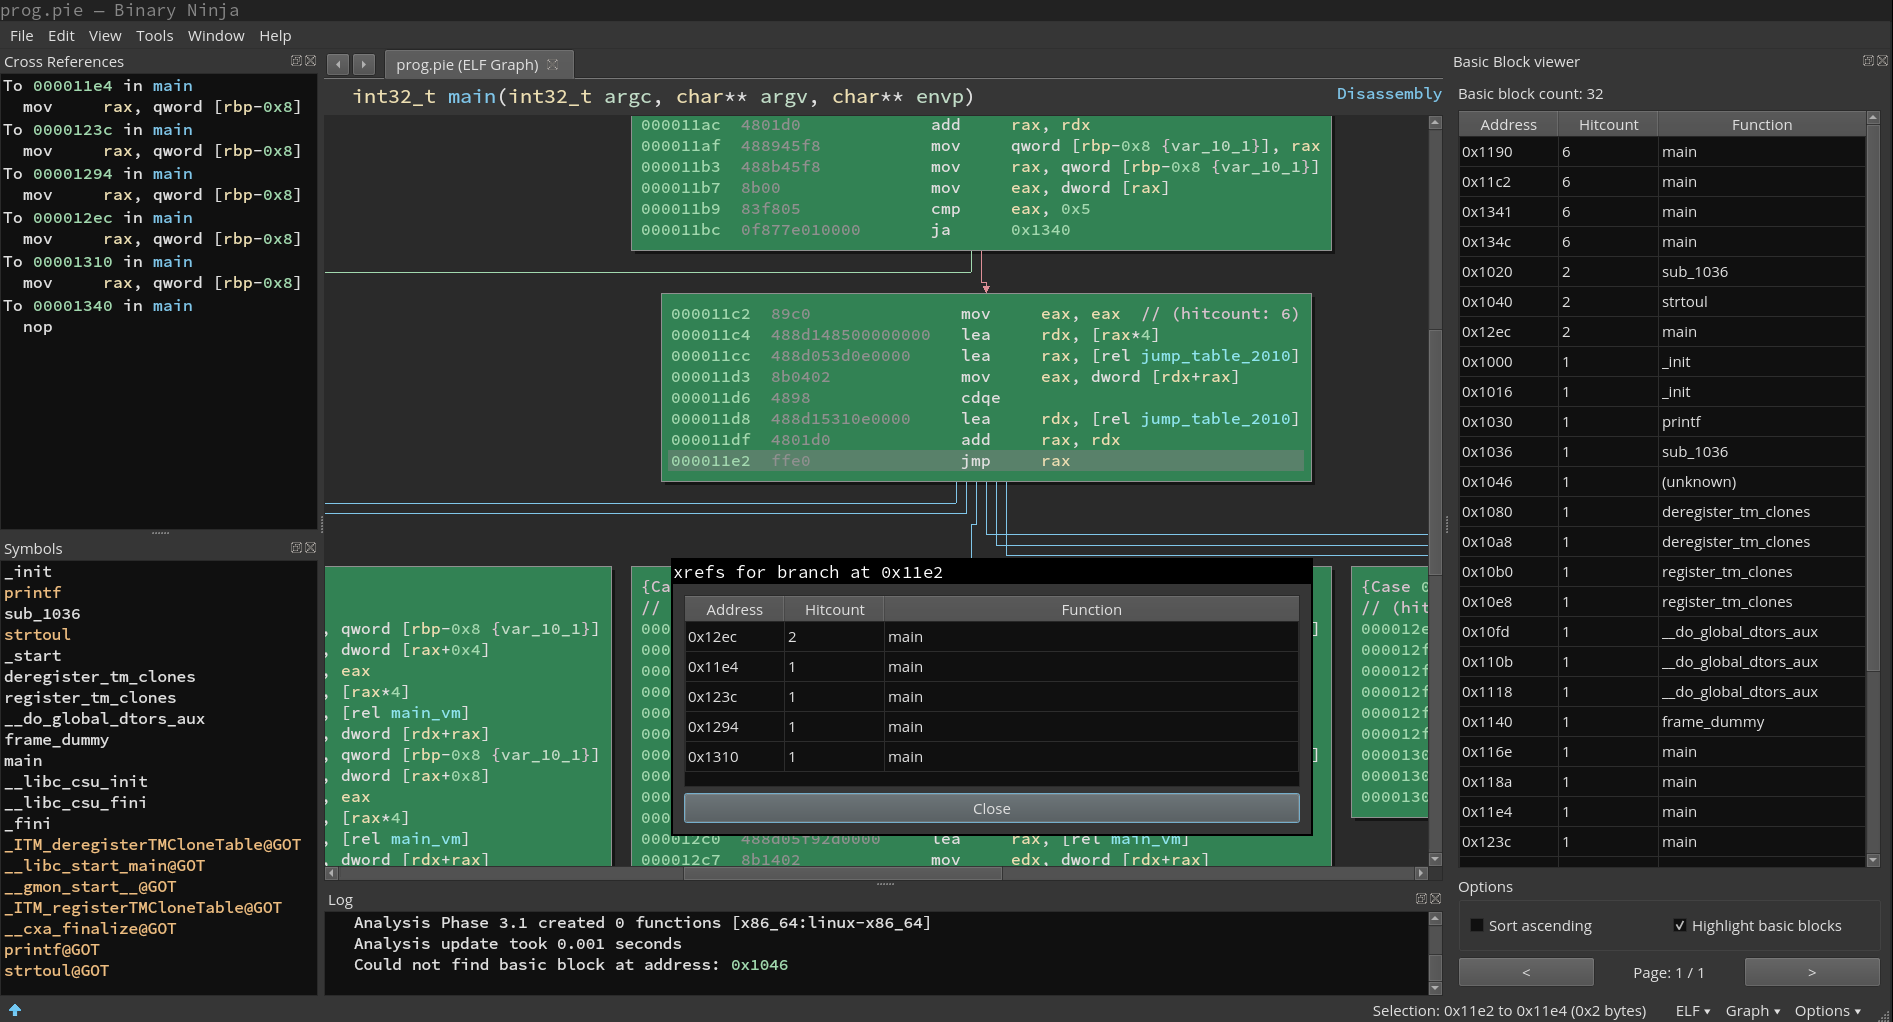
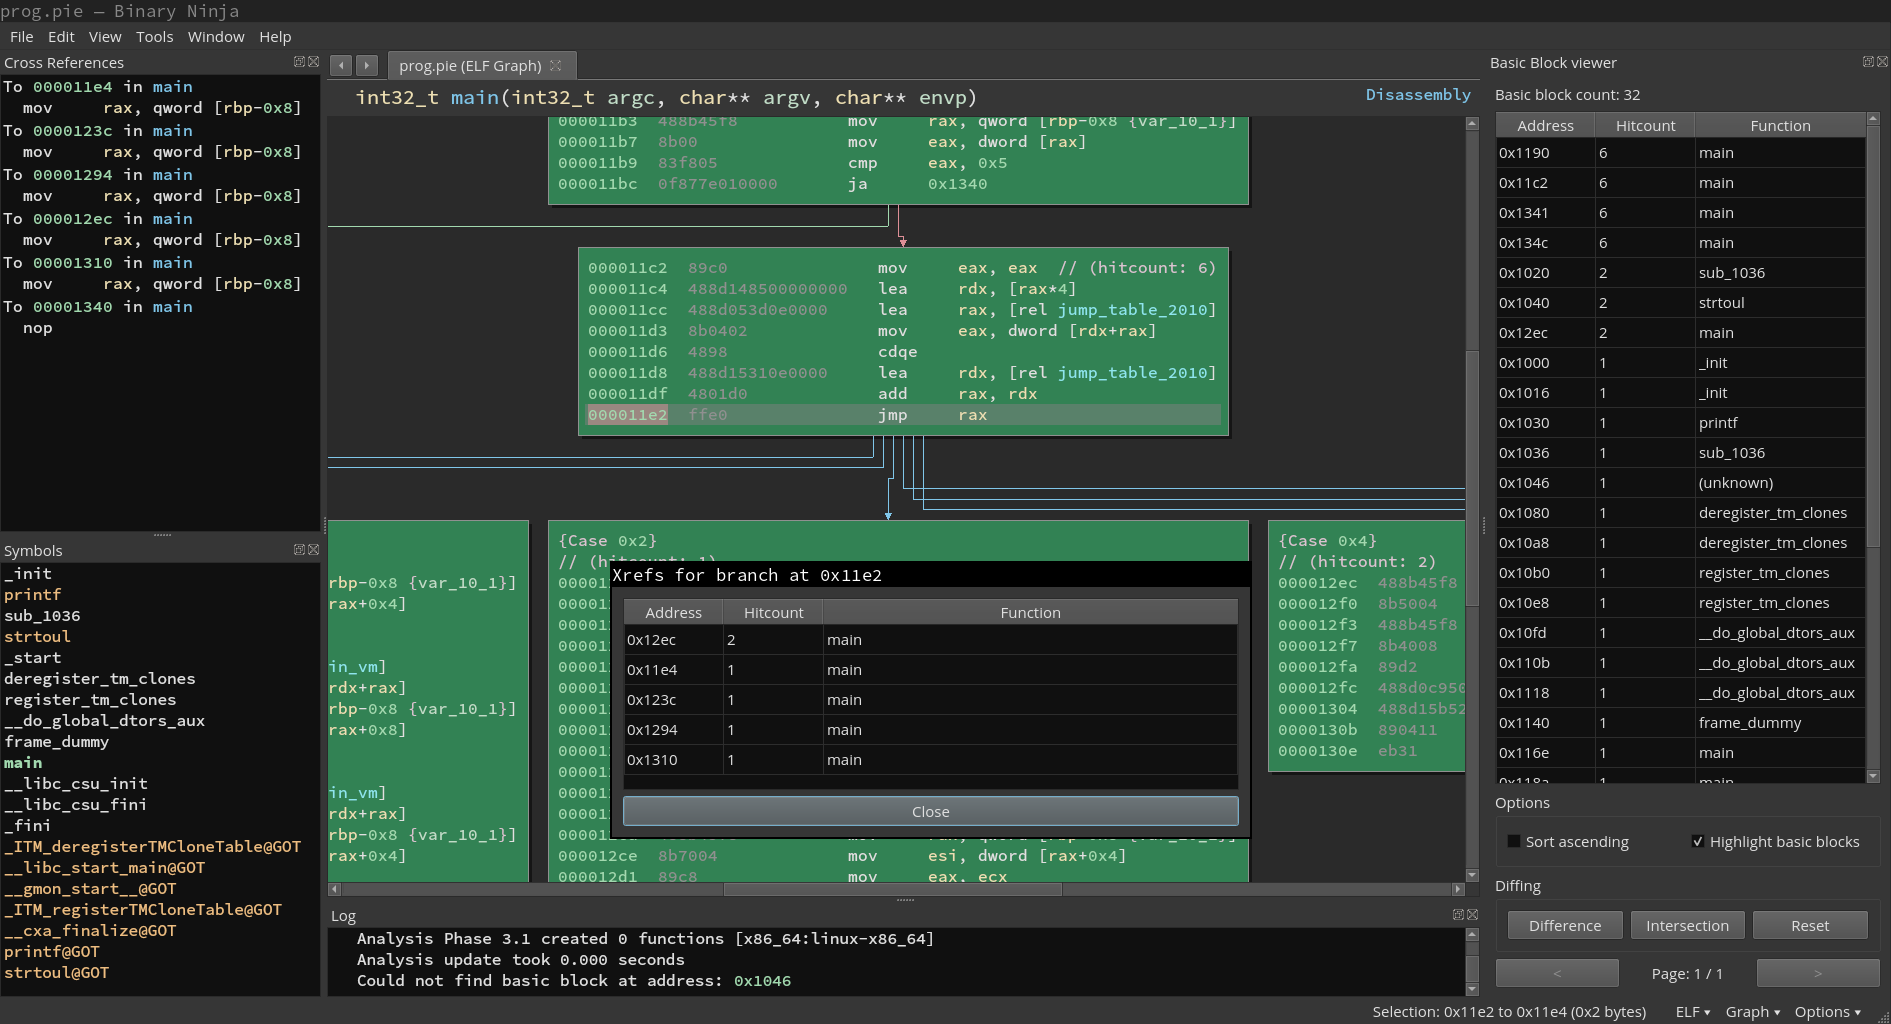
Added trace diffing for the binary ninja plugin

diff --git a/plugins/binja-wakare/view.py b/plugins/binja-wakare/view.py
@@ -1,10 +1,15 @@
 import math
+import sqlite3
 
 from PySide2.QtWidgets import QDialog, QTableWidget, QTableWidgetItem, QPushButton, QVBoxLayout, QHBoxLayout, QWidget, QLabel, QCheckBox, QGroupBox
 from PySide2.QtCore import Qt
 
 from binaryninjaui import DockContextHandler, UIActionHandler
 from binaryninja.highlight import HighlightColor, HighlightStandardColor
+from binaryninja.enums import MessageBoxIcon
+from binaryninja.interaction import show_message_box, get_open_filename_input
+
+from .dbutils import TraceDB, TraceDBError
 
 
 def _name_from_address(bv, address):
@@ -30,6 +35,27 @@ def _name_from_address(bv, address):
         return symbol.full_name
 
     return symbol.name
+
+
+def _print_error(title, msg):
+    show_message_box(title, msg, icon=MessageBoxIcon.ErrorIcon)
+
+
+def _load_db(bv):
+    path = get_open_filename_input("Select trace database")
+
+    if not path:
+        return None
+
+    path = path.decode("UTF-8")
+
+    try:
+        db = TraceDB(bv, path)
+        return db
+    except TraceDBError as e:
+        _print_error("Database error", "Loading error: {}".format(e))
+    except sqlite3.Error as e:
+        _print_error("Database error", "sqlite error: {}".format(e))
 
 
 class XrefsDialog(QDialog):
@@ -133,6 +159,24 @@ class BBViewerWidget(QWidget, DockContextHandler):
         optionslayout.addWidget(highlight_checkbox)
         optionsbox.setLayout(optionslayout)
 
+        # Diffing buttons
+        diffinglayout = QHBoxLayout()
+        diffingoptions = QGroupBox("Diffing")
+
+        diffing_reset_button = QPushButton("Reset")
+        diffing_diff_button = QPushButton("Difference")
+        diffing_inter_button = QPushButton("Intersection")
+
+        diffing_reset_button.clicked.connect(self._cb_diff_reset)
+        diffing_diff_button.clicked.connect(self._cb_diff_diff)
+        diffing_inter_button.clicked.connect(self._cb_diff_inter)
+
+        diffinglayout.addWidget(diffing_diff_button)
+        diffinglayout.addWidget(diffing_inter_button)
+        diffinglayout.addWidget(diffing_reset_button)
+
+        diffingoptions.setLayout(diffinglayout)
+
         # Bottom buttons for page change
         prevnextlayout = QHBoxLayout()
         self.back_button = QPushButton("<")
@@ -151,6 +195,7 @@ class BBViewerWidget(QWidget, DockContextHandler):
         vlayout.addWidget(self.hitcount_counter)
         vlayout.addWidget(self.hit_table)
         vlayout.addWidget(optionsbox)
+        vlayout.addWidget(diffingoptions)
         vlayout.addLayout(prevnextlayout)
 
         self.setLayout(vlayout)
@@ -182,45 +227,70 @@ class BBViewerWidget(QWidget, DockContextHandler):
         self._render_page()
 
     def _cb_highlight(self, elem):
-        def delete_hitcount_str(input_str):
-            if "(hitcount: " not in input_str:
-                return input_str
-
-            chk = input_str[input_str.find("(hitcount: "):]
-
-            if ")\n" not in input_str:
-                return input_str
-
-            chk = chk[:input_str.find(")\n")+2]
-
-            return input_str.replace(chk, "")
-
-        # (0, 255, 106)
         self.highlight = not self.highlight
-        colorHighlight = HighlightColor(red=0, green=255, blue=106)
+        self._bb_highlight(self.highlight)
 
-        for bbaddr, bbhitcount in self.hitcounts:
-            bbs = self.bv.get_basic_blocks_at(bbaddr)
+    def _cb_diff_reset(self, item):
+        if self.highlight:
+            self._bb_highlight(False)
 
-            if not bbs:
-                print("Could not find basic block at address: 0x{:x}".format(bbaddr))
-                continue
+        self.hitcounts = [e for e in self.orig_hitcounts]
 
-            bb = bbs[0]
-            fn = bb.function
+        if self.highlight:
+            self._bb_highlight(True)
 
-            if not fn:
-                print("Could not find function containing block at address: 0x{:x}".format(bbaddr))
-                continue
+        self.current_page = 0
+        self.hitcount_counter.setText("Basic block count: {}".format(len(self.hitcounts)))
+        self._render_nav_line()
+        self._render_page()
 
-            cur_comment = delete_hitcount_str(fn.get_comment_at(bbaddr))
+    def _cb_diff_diff(self, item):
+        new_db = _load_db(self.bv)
 
-            if self.highlight:
-                bb.set_user_highlight(colorHighlight)
-                fn.set_comment_at(bbaddr, "(hitcount: {})\n".format(bbhitcount) + cur_comment)
-            else:
-                bb.set_user_highlight(HighlightStandardColor.NoHighlightColor)
-                fn.set_comment_at(bbaddr, cur_comment)
+        if not new_db:
+            return
+
+        source_bbs = set([e[0] for e in self.hitcounts])
+        new_bbs = set([e[0] for e in new_db.get_hitcounts()])
+        result_bbs = source_bbs - new_bbs
+
+        if self.highlight:
+            self._bb_highlight(False)
+
+        previous_count = len(self.hitcounts)
+        self.hitcounts = list(filter(lambda e: e[0] in result_bbs, self.hitcounts))
+        self.hitcount_counter.setText("Basic block count: {} (previously {})".format(len(self.hitcounts), previous_count))
+
+        if self.highlight:
+            self._bb_highlight(True)
+
+        self.current_page = 0
+        self._render_nav_line()
+        self._render_page()
+
+    def _cb_diff_inter(self, item):
+        new_db = _load_db(self.bv)
+
+        if not new_db:
+            return
+
+        source_bbs = set([e[0] for e in self.hitcounts])
+        new_bbs = set([e[0] for e in new_db.get_hitcounts()])
+        result_bbs = source_bbs & new_bbs
+
+        if self.highlight:
+            self._bb_highlight(False)
+
+        previous_count = len(self.hitcounts)
+        self.hitcounts = list(filter(lambda e: e[0] in result_bbs, self.hitcounts))
+        self.hitcount_counter.setText("Basic block count: {} (previously {})".format(len(self.hitcounts), previous_count))
+
+        if self.highlight:
+            self._bb_highlight(True)
+
+        self.current_page = 0
+        self._render_nav_line()
+        self._render_page()
 
     def _render_nav_line(self):
         max_pages = math.ceil(len(self.hitcounts) / BBViewerWidget.PER_PAGE_COUNT)
@@ -254,3 +324,43 @@ class BBViewerWidget(QWidget, DockContextHandler):
             self.hit_table.setItem(i, 0, address_item)
             self.hit_table.setItem(i, 1, hitcount_item)
             self.hit_table.setItem(i, 2, name_item)
+
+    def _bb_highlight(self, highlight):
+        def delete_hitcount_str(input_str):
+            if "(hitcount: " not in input_str:
+                return input_str
+
+            chk = input_str[input_str.find("(hitcount: "):]
+
+            if ")\n" not in input_str:
+                return input_str
+
+            chk = chk[:input_str.find(")\n")+2]
+
+            return input_str.replace(chk, "")
+
+        # (0, 255, 106)
+        colorHighlight = HighlightColor(red=0, green=255, blue=106)
+
+        for bbaddr, bbhitcount in self.hitcounts:
+            bbs = self.bv.get_basic_blocks_at(bbaddr)
+
+            if not bbs:
+                print("Could not find basic block at address: 0x{:x}".format(bbaddr))
+                continue
+
+            bb = bbs[0]
+            fn = bb.function
+
+            if not fn:
+                print("Could not find function containing block at address: 0x{:x}".format(bbaddr))
+                continue
+
+            cur_comment = delete_hitcount_str(fn.get_comment_at(bbaddr))
+
+            if highlight:
+                bb.set_user_highlight(colorHighlight)
+                fn.set_comment_at(bbaddr, "(hitcount: {})\n".format(bbhitcount) + cur_comment)
+            else:
+                bb.set_user_highlight(HighlightStandardColor.NoHighlightColor)
+                fn.set_comment_at(bbaddr, cur_comment)

diff --git a/plugins/binja-wakare/__init__.py b/plugins/binja-wakare/__init__.py
@@ -25,11 +25,11 @@ BRANCH_IL = [
 ]
 
 
-def print_error(title, message):
+def _print_error(title, message):
     show_message_box(title, message, icon=MessageBoxIcon.ErrorIcon)
 
 
-def is_branch(ins):
+def _is_branch(ins):
     for subins in ins.prefix_operands:
         if isinstance(subins, LowLevelILOperationAndSize) and subins.operation in BRANCH_IL:
             return True
@@ -37,7 +37,7 @@ def is_branch(ins):
     return False
 
 
-def get_llil_at(bv, addr):
+def _get_llil_at(bv, addr):
     """ Gets the low level il instruction at given vaddr """
     fns = bv.get_functions_containing(addr)
 
@@ -61,7 +61,7 @@ def db_required(func):
 
     def inner(*args, **kwargs):
         if not LOADED_DB:
-            print_error("Database Error", "No trace was loaded.Please open a trace database.")
+            _print_error("Database Error", "No trace was loaded.Please open a trace database.")
         else:
             func(*args, **kwargs)
 
@@ -99,10 +99,10 @@ def db_load(bv):
 
         show_message_box("Trace info", text)
     except sqlite3.Error as e:
-        print_error("Database error", "sqlite error: {}".format(e))
+        _print_error("Database error", "sqlite error: {}".format(e))
         LOADED_DB = None
     except TraceDBError as e:
-        print_error("Database error", "Trace init error: {}".format(e))
+        _print_error("Database error", "Loading error: {}".format(e))
         LOADED_DB = None
 
 
@@ -110,10 +110,10 @@ def db_load(bv):
 def display_branch_xrefs(bv, addr):
     global LOADED_DB
 
-    ins = get_llil_at(bv, addr)
+    ins = _get_llil_at(bv, addr)
 
-    if not is_branch(ins):
-        print_error("Code error", "This instruction is not a branch")
+    if not _is_branch(ins):
+        _print_error("Code error", "This instruction is not a branch")
         return
 
     dialog = XrefsDialog(addr, bv, LOADED_DB)
@@ -139,7 +139,7 @@ def display_bb_viewer(bv):
     dock_handler.addDockWidget(dock_widget, Qt.RightDockWidgetArea, Qt.Vertical, True)
 
 
-PluginCommand.register("Execution trace\\Load trace database", "Loads a trace database", db_load)
-PluginCommand.register_for_address("Execution trace\\Branch xrefs from", "Displays xrefs from a branch", display_branch_xrefs)
+PluginCommand.register("Wakare\\Load trace database", "Loads a trace database", db_load)
+PluginCommand.register_for_address("Wakare\\Branch xrefs from", "Displays xrefs from a branch", display_branch_xrefs)
 
-PluginCommand.register("Execution trace\\Show basic block viewer", "Displays information about basic blocks", display_bb_viewer)
+PluginCommand.register("Wakare\\Show basic block viewer", "Displays information about basic blocks", display_bb_viewer)

diff --git a/src/extractor/pt_extractor.cpp b/src/extractor/pt_extractor.cpp
@@ -129,7 +129,7 @@ static int setup_pt(struct pt_insn_decoder** ins_dec, PerfFile& file)
     }
 
     struct pt_image* image = pt_image_alloc(nullptr);
-    
+
     if(!image) {
         std::cerr << "Could not allocate trace image\n";
         return -1;
@@ -137,7 +137,7 @@ static int setup_pt(struct pt_insn_decoder** ins_dec, PerfFile& file)
 
     for(auto& map : file.maps) {
         if(map.filename != "[vdso]") {
-            int err = pt_image_add_file(image, map.filename.c_str(), 
+            int err = pt_image_add_file(image, map.filename.c_str(),
                     map.offset, map.size, nullptr, map.start);
 
             if(err != 0) {
@@ -231,7 +231,7 @@ int pt_process(std::string perf_path, std::string binary_path,
 
     if(setup_perf(perf_file, perf_path) < 0)
         return 1;
-    
+
     if(setup_pt(&ins_dec, perf_file) < 0)
         return 1;
 
@@ -341,7 +341,7 @@ int pt_process(std::string perf_path, std::string binary_path,
             }
 
 
-            if(ins.iclass == ptic_jump || 
+            if(ins.iclass == ptic_jump ||
                     ins.iclass == ptic_cond_jump ||
                     ins.iclass == ptic_call) {
 
@@ -376,7 +376,7 @@ int pt_process(std::string perf_path, std::string binary_path,
 
     out_fstream.close();
     google::protobuf::ShutdownProtobufLibrary();
-    
+
     // pt cleanup
     pt_image_free(pt_insn_get_image(ins_dec));
     pt_insn_free_decoder(ins_dec);

diff --git a/docs/binary-ninja.md b/docs/binary-ninja.md
@@ -1,5 +1,5 @@
 # binja-wakare
-binja-wakare is a binary ninja plugin providing tools to use the trace databases generated by wakare-converter. You can find the plugin in "Tools/Execution trace" withing binja.
+binja-wakare is a binary ninja plugin providing tools to use the trace databases generated by wakare-converter. You can find the plugin in "Tools/Wakare" withing binja.
 
 ## Installation
 Copy or symlink the binja-wakare folder to your binary ninja plugin folder.
@@ -7,6 +7,7 @@ Copy or symlink the binja-wakare folder to your binary ninja plugin folder.
 ## Features
 - Basic block listing
 - Basic block coloration
+- Basic block diffing (Difference / Intersection)
 - Branch target resolution (right click on calls/jumps)
 - Supports PIE executables/traces
 
